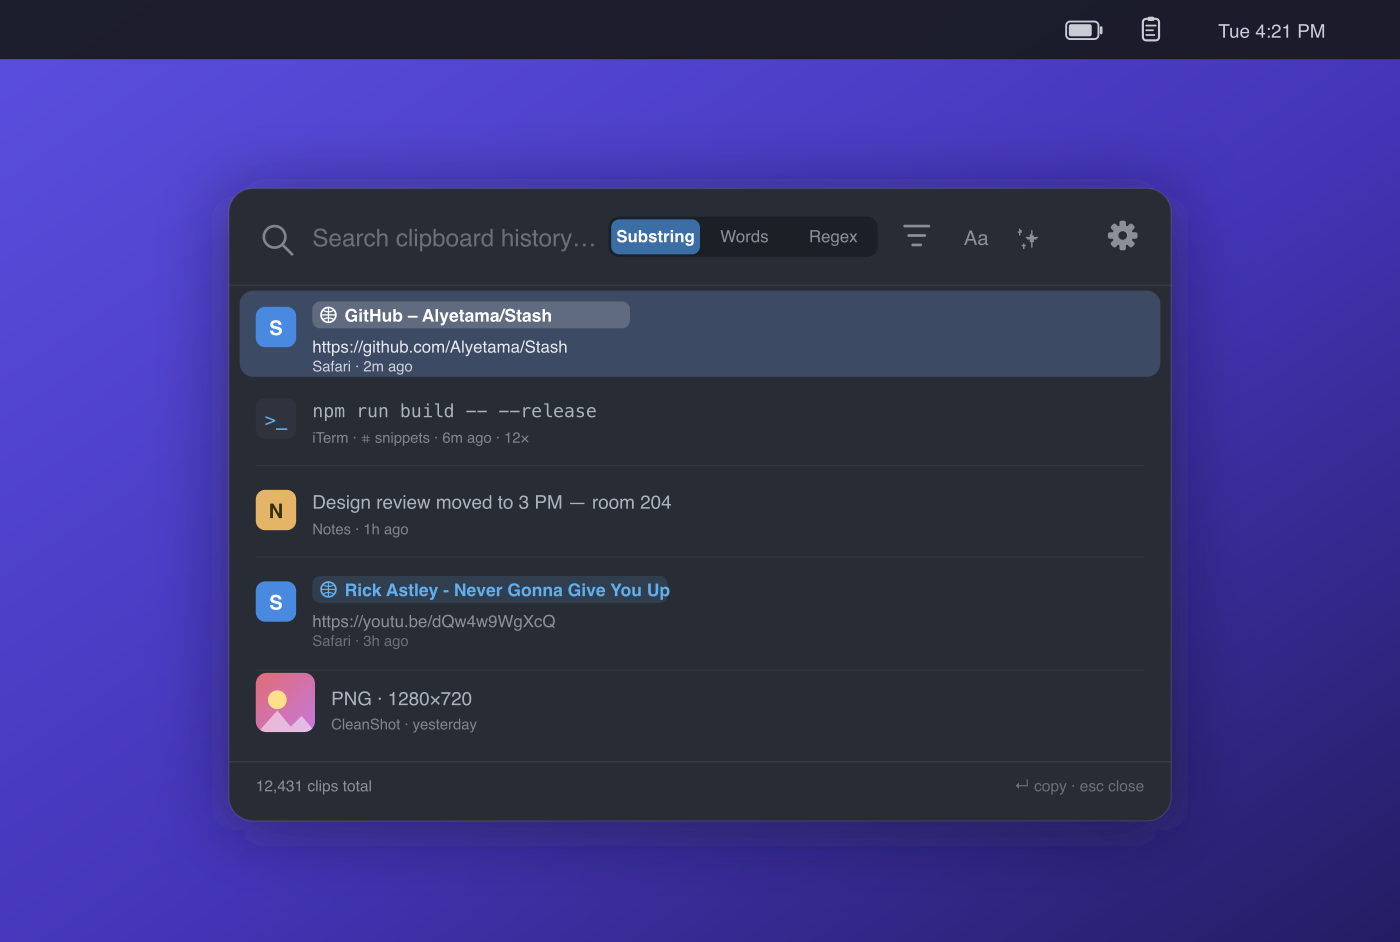
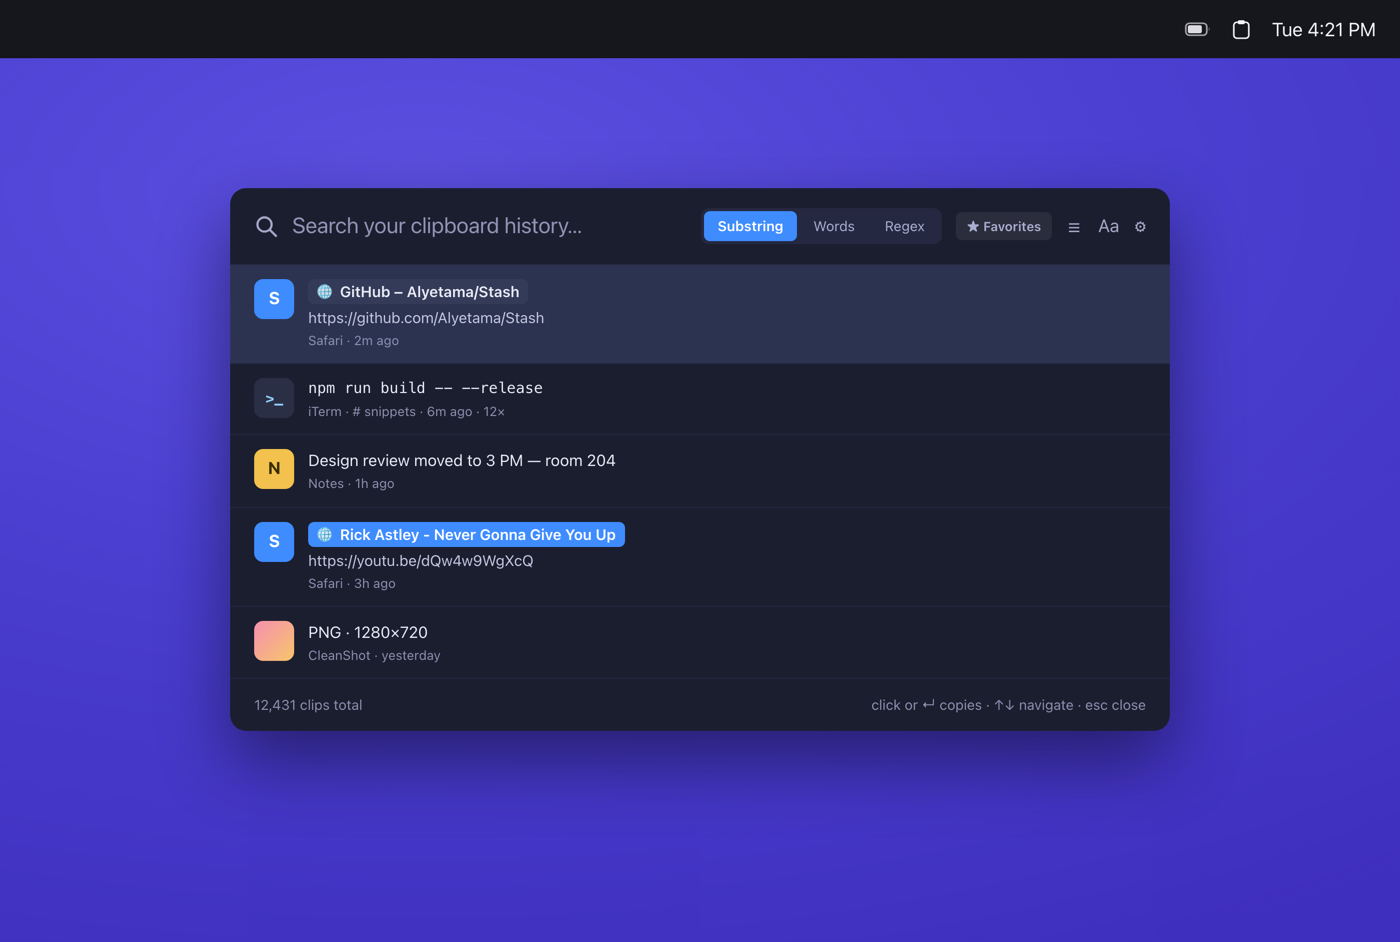
docs: correct claims that didn't match the code
Audited every documented claim against the source and fixed what didn't hold:

- arm64: released DMG is Apple Silicon only (lipo), so drop "Intel" from the
  site and state the requirement in the README.
- signing: the app is signed with a self-signed cert (codesign shows
  Authority=Stash Code Signing), not "unsigned" (README) or "ad-hoc" (site).
- perf: no benchmark backs "past a million clips" / "< 10 ms" / "1M+ entries",
  so replace those with what is actually true about the FTS5 indexes.
- storage: images and thumbnails live as files next to the database, not
  inside it.
- Copy 'Em import: the picker wants a .cep export, not the live history.
- landing-page demo: disclose that its sparkle button returns canned patterns
  instead of calling OpenCode.
- build.sh printed the wrong default hotkey (the default is ⌃⌥C).

Also document the pinned favorites/group tab and the groups editor, which
shipped in 1.1.3 and 1.1.6 but appeared in neither the README nor the site.

The two screenshots were stale and wrong in four ways (old placeholder text,
old footer hint, an AI button that only exists on the Regex tab, no pinned
tab). They are now generated from a checked-in source, docs/assets/mockups.html
via make-mockups.js, so they can be regenerated instead of drifting again.

diff --git a/docs/assets/mockups.html b/docs/assets/mockups.html
@@ -1,0 +1,165 @@
+<!DOCTYPE html>
+<meta charset="utf-8">
+<title>Stash mockup source</title>
+<!--
+  Source for docs/assets/mode-centered.png and mode-compact.png.
+  Regenerate with:  node docs/assets/make-mockups.js
+  Sample clips are invented on purpose — never paste a real clipboard history in here.
+  Every UI string below must match the app; the ones that are easy to get wrong:
+    placeholder   SearchPanel.swift   "Search your clipboard history…"
+    footer hint   SearchView.swift    "click or ↵ copies · ↑↓ navigate · esc close"
+    clip count    SearchView.swift    "\(count) clips total"
+  The ✨ AI button only exists on the Regex tab (SearchView.swift, aiButton), so it is
+  absent here while Substring is selected.
+-->
+<style>
+  *{box-sizing:border-box;margin:0;padding:0}
+  body{font:14px/1.4 -apple-system,BlinkMacSystemFont,"SF Pro Text","Helvetica Neue",sans-serif;
+       -webkit-font-smoothing:antialiased}
+  .shot{width:1400px;height:942px;position:relative;overflow:hidden;
+        background:radial-gradient(120% 90% at 30% 20%,#5b4fe0 0%,#4a3fd0 45%,#3f2fbe 100%)}
+  /* fake menu bar */
+  .menubar{position:absolute;top:0;left:0;right:0;height:58px;background:#16161d;
+           display:flex;align-items:center;justify-content:flex-end;gap:22px;padding-right:24px;
+           color:#f2f2f7;font-size:19px}
+  .menubar .ico{opacity:.95;font-size:20px}
+  .menubar .ico.on{background:#3a3a45;border-radius:7px;padding:4px 7px}
+
+  .panel{position:absolute;background:#1b1e2e;border-radius:16px;
+         box-shadow:0 30px 70px rgba(0,0,0,.45);overflow:hidden;color:#e8eaf6}
+  .centered{width:940px;left:230px;top:188px}
+  .compact{width:560px;right:32px;top:82px}
+
+  .hdr{display:flex;align-items:center;gap:14px;padding:20px 24px;border-bottom:1px solid #262a41}
+  .compact .hdr{flex-direction:column;align-items:stretch;gap:12px;padding:16px 18px}
+  .compact .hrow{display:flex;align-items:center;gap:12px}
+  .mag{font-size:22px;color:#a3a8c8}
+  .ph{flex:1;color:#8f94b5;font-size:22px;white-space:nowrap}
+  .compact .ph{font-size:17px}
+
+  .modes{display:flex;background:#242840;border-radius:8px;padding:3px;gap:2px;flex-shrink:0}
+  .modes span{padding:5px 14px;border-radius:6px;font-size:14px;color:#a9aed0;white-space:nowrap}
+  .modes span.on{background:#3f8cff;color:#fff;font-weight:600}
+
+  .pin{display:flex;align-items:center;gap:5px;background:rgba(255,255,255,.07);
+       border-radius:6px;padding:5px 11px;font-size:13px;font-weight:600;color:#a9aed0;flex-shrink:0}
+  .icons{display:flex;align-items:center;gap:16px;color:#a3a8c8;font-size:18px;flex-shrink:0}
+
+  .row{display:flex;gap:14px;align-items:flex-start;padding:14px 24px;border-bottom:1px solid #232744}
+  .compact .row{padding:11px 18px}
+  .row.sel{background:#2c3350}
+  .app{width:40px;height:40px;border-radius:9px;display:flex;align-items:center;justify-content:center;
+       font-size:17px;font-weight:700;color:#fff;flex-shrink:0}
+  .compact .app{width:32px;height:32px;font-size:14px}
+  .safari{background:#3f8cff}.term{background:#2b2f45;color:#8fd3ff;font-size:14px}
+  .notes{background:#f2c14e;color:#3a2f00}.img{background:linear-gradient(135deg,#f58fb0,#f7c56b)}
+  .body{min-width:0;flex:1}
+  .ttl{font-size:16px;white-space:nowrap;overflow:hidden;text-overflow:ellipsis}
+  .compact .ttl{font-size:14px}
+  .lnk{display:inline-flex;align-items:center;gap:6px;background:#343b58;border-radius:6px;
+       padding:2px 9px;font-weight:600;font-size:15px}
+  .lnk.hi{background:#3f8cff;color:#fff}
+  .url{color:#c3c7e0;font-size:15px;margin-top:3px;white-space:nowrap;overflow:hidden;text-overflow:ellipsis}
+  .compact .url{font-size:13px}
+  .meta{color:#8b90b0;font-size:13px;margin-top:3px}
+  .compact .meta{font-size:12px}
+  .mono{font-family:"SF Mono",Menlo,monospace;font-size:15px}
+  .compact .mono{font-size:13px}
+
+  .ftr{display:flex;justify-content:space-between;padding:16px 24px;color:#8b90b0;font-size:14px}
+  .compact .ftr{padding:12px 18px;font-size:12px}
+</style>
+
+<div class="shot" id="centered">
+  <div class="menubar"><svg width="26" height="14" viewBox="0 0 26 14"><rect x="1" y="1" width="21" height="12" rx="3.5" stroke="#f2f2f7" stroke-width="1.6" fill="none" opacity=".65"/><rect x="3" y="3" width="14" height="8" rx="2" fill="#f2f2f7" opacity=".9"/><path d="M24 5v4a3 3 0 0 0 0-4z" fill="#f2f2f7" opacity=".5"/></svg><svg class="clip" width="17" height="20" viewBox="0 0 17 20"><rect x="1" y="3" width="15" height="16" rx="3" stroke="#f2f2f7" stroke-width="1.6" fill="none"/><rect x="5" y="1" width="7" height="4" rx="1.6" fill="#f2f2f7"/></svg><span>Tue 4:21 PM</span></div>
+  <div class="panel centered">
+    <div class="hdr">
+      <svg class="mag" width="24" height="24" viewBox="0 0 22 22" fill="none"><circle cx="9.5" cy="9.5" r="6.5" stroke="#a3a8c8" stroke-width="2"/><line x1="14.5" y1="14.5" x2="20" y2="20" stroke="#a3a8c8" stroke-width="2" stroke-linecap="round"/></svg>
+      <span class="ph">Search your clipboard history…</span>
+      <span class="modes"><span class="on">Substring</span><span>Words</span><span>Regex</span></span>
+      <span class="pin">★ Favorites</span>
+      <span class="icons"><span>☰</span><span>Aa</span><span>⚙</span></span>
+    </div>
+    <div class="row sel">
+      <span class="app safari">S</span>
+      <span class="body">
+        <span class="ttl"><span class="lnk">🌐 GitHub – Alyetama/Stash</span></span>
+        <div class="url">https://github.com/Alyetama/Stash</div>
+        <div class="meta">Safari · 2m ago</div>
+      </span>
+    </div>
+    <div class="row">
+      <span class="app term">&gt;_</span>
+      <span class="body"><div class="ttl mono">npm run build -- --release</div>
+        <div class="meta">iTerm · # snippets · 6m ago · 12×</div></span>
+    </div>
+    <div class="row">
+      <span class="app notes">N</span>
+      <span class="body"><div class="ttl">Design review moved to 3 PM — room 204</div>
+        <div class="meta">Notes · 1h ago</div></span>
+    </div>
+    <div class="row">
+      <span class="app safari">S</span>
+      <span class="body">
+        <span class="ttl"><span class="lnk hi">🌐 Rick Astley - Never Gonna Give You Up</span></span>
+        <div class="url">https://youtu.be/dQw4w9WgXcQ</div>
+        <div class="meta">Safari · 3h ago</div>
+      </span>
+    </div>
+    <div class="row">
+      <span class="app img"></span>
+      <span class="body"><div class="ttl">PNG · 1280×720</div>
+        <div class="meta">CleanShot · yesterday</div></span>
+    </div>
+    <div class="ftr"><span>12,431 clips total</span>
+      <span>click or ↵ copies · ↑↓ navigate · esc close</span></div>
+  </div>
+</div>
+
+<div class="shot" id="compact">
+  <div class="menubar"><svg width="26" height="14" viewBox="0 0 26 14"><rect x="1" y="1" width="21" height="12" rx="3.5" stroke="#f2f2f7" stroke-width="1.6" fill="none" opacity=".65"/><rect x="3" y="3" width="14" height="8" rx="2" fill="#f2f2f7" opacity=".9"/><path d="M24 5v4a3 3 0 0 0 0-4z" fill="#f2f2f7" opacity=".5"/></svg><span class="ico on"><svg width="17" height="20" viewBox="0 0 17 20"><rect x="1" y="3" width="15" height="16" rx="3" stroke="#f2f2f7" stroke-width="1.6" fill="none"/><rect x="5" y="1" width="7" height="4" rx="1.6" fill="#f2f2f7"/></svg></span><span>Tue 4:21 PM</span></div>
+  <div class="panel compact">
+    <div class="hdr">
+      <div class="hrow"><svg class="mag" width="24" height="24" viewBox="0 0 22 22" fill="none"><circle cx="9.5" cy="9.5" r="6.5" stroke="#a3a8c8" stroke-width="2"/><line x1="14.5" y1="14.5" x2="20" y2="20" stroke="#a3a8c8" stroke-width="2" stroke-linecap="round"/></svg><span class="ph">Search your clipboard history…</span>
+        <span class="icons"><span>⚙</span></span></div>
+      <div class="hrow">
+        <span class="modes"><span class="on">Substring</span><span>Words</span><span>Regex</span></span>
+        <span class="pin">★ Favorites</span>
+        <span class="icons"><span>☰</span><span>Aa</span></span>
+      </div>
+    </div>
+    <div class="row sel">
+      <span class="app safari">S</span>
+      <span class="body">
+        <span class="ttl"><span class="lnk">🌐 GitHub – Alyetama/Stash</span></span>
+        <div class="url">https://github.com/Alyetama/Stash</div>
+        <div class="meta">Safari · 2m ago</div>
+      </span>
+    </div>
+    <div class="row">
+      <span class="app term">&gt;_</span>
+      <span class="body"><div class="ttl mono">npm run build -- --release</div>
+        <div class="meta">iTerm · # snippets · 6m ago · 12×</div></span>
+    </div>
+    <div class="row">
+      <span class="app notes">N</span>
+      <span class="body"><div class="ttl">Design review moved to 3 PM — room 204</div>
+        <div class="meta">Notes · 1h ago</div></span>
+    </div>
+    <div class="row">
+      <span class="app safari">S</span>
+      <span class="body">
+        <span class="ttl"><span class="lnk hi">🌐 Rick Astley - Never Gonna Give You Up</span></span>
+        <div class="url">https://youtu.be/dQw4w9WgXcQ</div>
+        <div class="meta">Safari · 3h ago</div>
+      </span>
+    </div>
+    <div class="row">
+      <span class="app img"></span>
+      <span class="body"><div class="ttl">PNG · 1280×720</div>
+        <div class="meta">CleanShot · yesterday</div></span>
+    </div>
+    <div class="ftr"><span>12,431 clips total</span>
+      <span>click or ↵ copies · ↑↓ navigate · esc close</span></div>
+  </div>
+</div>

diff --git a/docs/index.html b/docs/index.html
@@ -4,10 +4,10 @@
 <meta charset="UTF-8">
 <meta name="viewport" content="width=device-width, initial-scale=1.0">
 <title>Stash — a fast clipboard manager for macOS</title>
-<meta name="description" content="Stash records everything you copy and searches your entire clipboard history in milliseconds, even past a million entries. Native macOS menu-bar app.">
+<meta name="description" content="Stash records everything you copy and searches your entire clipboard history from the menu bar. Native macOS app, SQLite FTS5-backed, 100% local.">
 <link rel="icon" href="assets/icon.png">
 <meta property="og:title" content="Stash — fast clipboard search for macOS">
-<meta property="og:description" content="Find any clip you've ever copied in milliseconds. Native menu-bar app, FTS5-powered, scales to millions of entries.">
+<meta property="og:description" content="Find any clip you've ever copied. Native menu-bar app, FTS5-powered, 100% local.">
 <meta property="og:image" content="assets/icon.png">
 <style>
   :root{
@@ -153,15 +153,15 @@
   <div class="wrap">
     <svg class="appicon" aria-label="Stash icon"><use href="#appicon"/></svg>
     <h1>Stash</h1>
-    <p class="tag">Find <b>anything you've ever copied</b> in milliseconds. A native macOS menu-bar clipboard manager that stays fast even past <b>millions</b> of entries. Works on its own; no other app required.</p>
+    <p class="tag">Find <b>anything you've ever copied</b>. A native macOS menu-bar clipboard manager that indexes your history with SQLite FTS5, so search stays fast as it grows. Works on its own; no other app required.</p>
     <div class="cta">
       <a class="btn btn-primary" id="dl" href="https://github.com/Alyetama/Stash/releases/latest/download/Stash.dmg" onclick="showInstall()">⤓ Download for macOS</a>
       <a class="btn btn-ghost" href="https://github.com/Alyetama/Stash" target="_blank" rel="noopener">View source</a>
     </div>
-    <p class="sub">macOS 13+ · Apple Silicon &amp; Intel · 100% local · summon anywhere with <span class="kbd">⌃⌥C</span></p>
+    <p class="sub">macOS 13+ · Apple Silicon · 100% local · summon anywhere with <span class="kbd">⌃⌥C</span></p>
 
     <div class="demo">
-      <p class="hint">↓ <b>Try it</b> — switch <b>Substring / Words / Regex</b> to see how each matches. In <b>Regex</b>, tap <b>✨</b> to generate a pattern from plain English. Click a result to copy it.</p>
+      <p class="hint">↓ <b>Try it</b> — switch <b>Substring / Words / Regex</b> to see how each matches. In <b>Regex</b>, tap <b>✨</b> for the pattern generator. Click a result to copy it. <i>This demo runs entirely in your browser on sample clips; its ✨ returns canned patterns, while the app sends your description to OpenCode.</i></p>
       <div class="panel">
         <div class="search">
           <svg width="22" height="22" viewBox="0 0 22 22" fill="none"><circle cx="9.5" cy="9.5" r="6.5" stroke="#a3a8c8" stroke-width="2"/><line x1="14.5" y1="14.5" x2="20" y2="20" stroke="#a3a8c8" stroke-width="2" stroke-linecap="round"/></svg>
@@ -193,6 +193,7 @@
     <div class="modeshow">
       <img src="assets/mode-centered.png" alt="Stash centered, Spotlight-style">
       <img class="top" src="assets/mode-compact.png" alt="Stash compact, under the menu bar">
+      <p class="lead" style="font-size:.85rem;opacity:.7;margin-top:14px">Both images show sample clips, not a real history.</p>
     </div>
   </div>
 </section>
@@ -200,8 +201,8 @@
 <section>
   <div class="wrap">
     <div class="stats">
-      <div class="stat"><div class="n">&lt; 10 ms</div><div class="l">typical search latency</div></div>
-      <div class="stat"><div class="n">1M+</div><div class="l">entries, still instant</div></div>
+      <div class="stat"><div class="n">FTS5</div><div class="l">trigram + bm25 indexes</div></div>
+      <div class="stat"><div class="n">0</div><div class="l">accounts, trackers, cloud sync</div></div>
       <div class="stat"><div class="n">100%</div><div class="l">local-first · no telemetry</div></div>
     </div>
   </div>
@@ -213,14 +214,15 @@
     <p class="lead">Stash records your clipboard in the background and indexes it with SQLite FTS5, so search stays fast no matter how much history piles up.</p>
     <div class="grid">
       <div class="feat"><div class="ico">📋</div><h3>Live capture</h3><p>Every text clip is saved automatically, tagged with the source app and time. Each entry shows the app's real icon.</p></div>
-      <div class="feat"><div class="ico">⚡</div><h3>Three search modes</h3><p>Substring "contains", relevance-ranked word search, and full regular expressions. Switch modes anytime.</p></div>
+      <div class="feat"><div class="ico">⚡</div><h3>Three search modes</h3><p>Substring "contains" (FTS5 trigram), relevance-ranked word search (bm25), and full regular expressions. Switch modes anytime.</p></div>
       <div class="feat"><div class="ico">🖼</div><h3>Images and GIFs</h3><p>Copied images are captured as thumbnails; GIFs show a still first frame. PNG, JPEG, WebP, AVIF, HEIC and more, each labeled by format.</p></div>
       <div class="feat"><div class="ico">🔁</div><h3>Smart duplicates</h3><p>Re-copying something already saved moves it to the top instead of duplicating. Or keep every copy, if you prefer.</p></div>
       <div class="feat"><div class="ico">🖱</div><h3>One-click copy</h3><p>Click a result or press Return to copy it and close. Paste with ⌘V anywhere.</p></div>
       <div class="feat"><div class="ico">⌨</div><h3>Customizable hotkey</h3><p>Summon the search bar from any app. Default is ⌃⌥C, and you can record your own.</p></div>
       <div class="feat"><div class="ico">✨</div><h3>AI regex (opt-in)</h3><p>Add an OpenCode API key and describe a pattern in plain English — a free model writes the regex and runs the search.</p></div>
       <div class="feat"><div class="ico">🔤</div><h3>Copy transformations</h3><p>Upper/lower/capitalize, trim or strip whitespace, single-line, or prepend/append text — applied as you copy.</p></div>
-      <div class="feat"><div class="ico">⭐</div><h3>Favorites and groups</h3><p>Star clips, or sort them into your own named groups, then filter the view to favorites or any group.</p></div>
+      <div class="feat"><div class="ico">⭐</div><h3>Favorites and groups</h3><p>Star clips, or sort them into your own named groups, then filter the view to favorites or any group. Rename and delete groups in the groups editor.</p></div>
+      <div class="feat"><div class="ico">📌</div><h3>Pinned quick filter</h3><p>A one-click tab beside the search modes jumps straight to your favorites. Right-click it to point it at any group instead.</p></div>
       <div class="feat"><div class="ico">🪟</div><h3>Compact or centered</h3><p>Open as a centered Spotlight-style window, or a compact dropdown anchored under the menu-bar icon.</p></div>
       <div class="feat"><div class="ico">🎨</div><h3>Themes</h3><p>Six dark themes in Settings — pick whichever fits your setup.</p></div>
       <div class="feat"><div class="ico">💾</div><h3>Export and import</h3><p>Save your whole history to a standalone SQLite database, or import once from a Copy 'Em export, strictly read-only.</p></div>
@@ -259,7 +261,7 @@
 <div class="modal" id="install" onclick="if(event.target===this)hideInstall()">
   <div class="card">
     <h3>Opening Stash the first time</h3>
-    <p class="why">Stash is open-source and ad-hoc signed (no paid Apple Developer ID), so macOS blocks it on first launch. Here's the one-time fix:</p>
+    <p class="why">Stash is open-source and signed with a self-signed certificate rather than a paid Apple Developer ID, so it isn't notarized and macOS blocks it on first launch. Here's the one-time fix:</p>
     <ol>
       <li>Open the downloaded <b>Stash.dmg</b> and drag <b>Stash</b> into <b>Applications</b>.</li>
       <li>Open <b>Stash</b> from Applications. macOS will say it "can't be opened" — that's expected.</li>

diff --git a/docs/assets/make-mockups.js b/docs/assets/make-mockups.js
@@ -1,0 +1,31 @@
+// Regenerates docs/assets/mode-centered.png and mode-compact.png from mockups.html,
+// so the images in the README and on the site can't drift from the app's real UI.
+//
+//   npm i playwright && npx playwright install chromium
+//   node docs/assets/make-mockups.js
+//
+// Shots are taken at 2x and written at 1400px wide, matching the existing assets.
+const { chromium } = require('playwright');
+const path = require('path');
+
+const dir = __dirname;
+const shots = [
+  { id: 'centered', out: 'mode-centered.png' },
+  { id: 'compact', out: 'mode-compact.png' },
+];
+
+(async () => {
+  const browser = await chromium.launch();
+  const page = await browser.newPage({
+    viewport: { width: 1400, height: 942 },
+    deviceScaleFactor: 2,
+  });
+  await page.goto('file://' + path.join(dir, 'mockups.html'));
+  await page.waitForTimeout(300);
+  for (const { id, out } of shots) {
+    const el = await page.$('#' + id);
+    await el.screenshot({ path: path.join(dir, out) });
+    console.log('wrote', out);
+  }
+  await browser.close();
+})();

diff --git a/README.md b/README.md
@@ -7,7 +7,7 @@
 **A fast, local clipboard manager for macOS.**
 Everything you copy, searchable in milliseconds from your menu bar.
 
-![Platform](https://img.shields.io/badge/macOS-13%2B-blue)
+![Platform](https://img.shields.io/badge/macOS-13%2B%20(Apple%20Silicon)-blue)
 ![Swift](https://img.shields.io/badge/Swift-5.9%2B-orange)
 ![Local](https://img.shields.io/badge/data-100%25%20local-success)
 ![License](https://img.shields.io/badge/license-MIT-green)
@@ -20,24 +20,28 @@ Everything you copy, searchable in milliseconds from your menu bar.
 
 <sub>Compact, under the menu bar</sub>
 
+<sub>Both images show sample clips, not a real history.</sub>
+
 </div>
 
 ## Install
+
+Requires macOS 13 or later. The released DMG is an Apple Silicon (arm64) build and has not been tested on Intel.
 
 1. Download **Stash.dmg** from the [latest release](https://github.com/Alyetama/Stash/releases/latest) and open it.
 2. Drag **Stash** into **Applications** and launch it.
 
 > [!IMPORTANT]
-> **On first launch, macOS will block Stash** — it's open-source and unsigned (no paid Apple Developer ID). One-time fix:
+> **On first launch, macOS will block Stash** — it's open-source and signed with a self-signed certificate rather than a paid Apple Developer ID, so it isn't notarized. One-time fix:
 > open **System Settings → Privacy & Security**, scroll down, and click **Open Anyway** next to the message about Stash, then confirm.
 
 Press <kbd>⌃</kbd><kbd>⌥</kbd><kbd>C</kbd> (or click the menu-bar icon) to open Stash and start searching.
 
 ## Features
 
-- **Instant search** over your whole history — substring, whole-word, or regex. Still fast past a million clips.
+- **Instant search** over your whole history — substring, whole-word, or regex, indexed with SQLite FTS5 so it stays fast as history grows.
 - **Captures everything** — text, images, and GIFs (PNG, JPEG, WebP, AVIF, HEIC, and more), tagged with the app they came from.
-- **Groups & favorites** — sort clips into named groups, star the ones you reuse, filter to either.
+- **Groups & favorites** — sort clips into named groups, star the ones you reuse, filter to either. A pinned tab beside the search modes jumps to your favorites in one click, or right-click it to point it at a group.
 - **Smart duplicates** — re-copying something moves it to the top instead of piling up a second copy (or keep every copy, your call).
 - **Copy transformations** — change case, trim, single-line, prepend/append, applied as you copy.
 - **AI regex** *(optional)* — describe a pattern in plain English, a free model writes the regex. Off until you add a key, which lives in your Keychain.
@@ -46,7 +50,7 @@ Press <kbd>⌃</kbd><kbd>⌥</kbd><kbd>C</kbd> (or click the menu-bar icon) to o
 
 ## Privacy
 
-Stash stores everything in a single local SQLite database at `~/Library/Application Support/Stash/`. Nothing is uploaded.
+Stash keeps everything in `~/Library/Application Support/Stash/` — clips and their metadata in a local SQLite database, copied images and their thumbnails as files alongside it. Nothing is uploaded.
 
 Two features can make a network request, and both stay off until you turn them on:
 
@@ -55,7 +59,7 @@ Two features can make a network request, and both stay off until you turn them o
 
 ## Coming from Copy 'Em?
 
-Stash can import your existing [Copy 'Em](https://apprywhere.com) history — text, images, and lists — straight from **Settings → Import**. It reads Copy 'Em's data strictly read-only and never modifies it. Stash works fully on its own; this is just for migrating.
+Stash can import your existing [Copy 'Em](https://apprywhere.com) history — text, images, and lists. Export from Copy 'Em first, then point **Settings → Import from Copy 'Em…** at the `.cep` file (or its `Copy-em-Paste.storedata`). Stash opens that store read-only and never modifies it. Stash works fully on its own; this is just for migrating.
 
 ## Build from source
 
